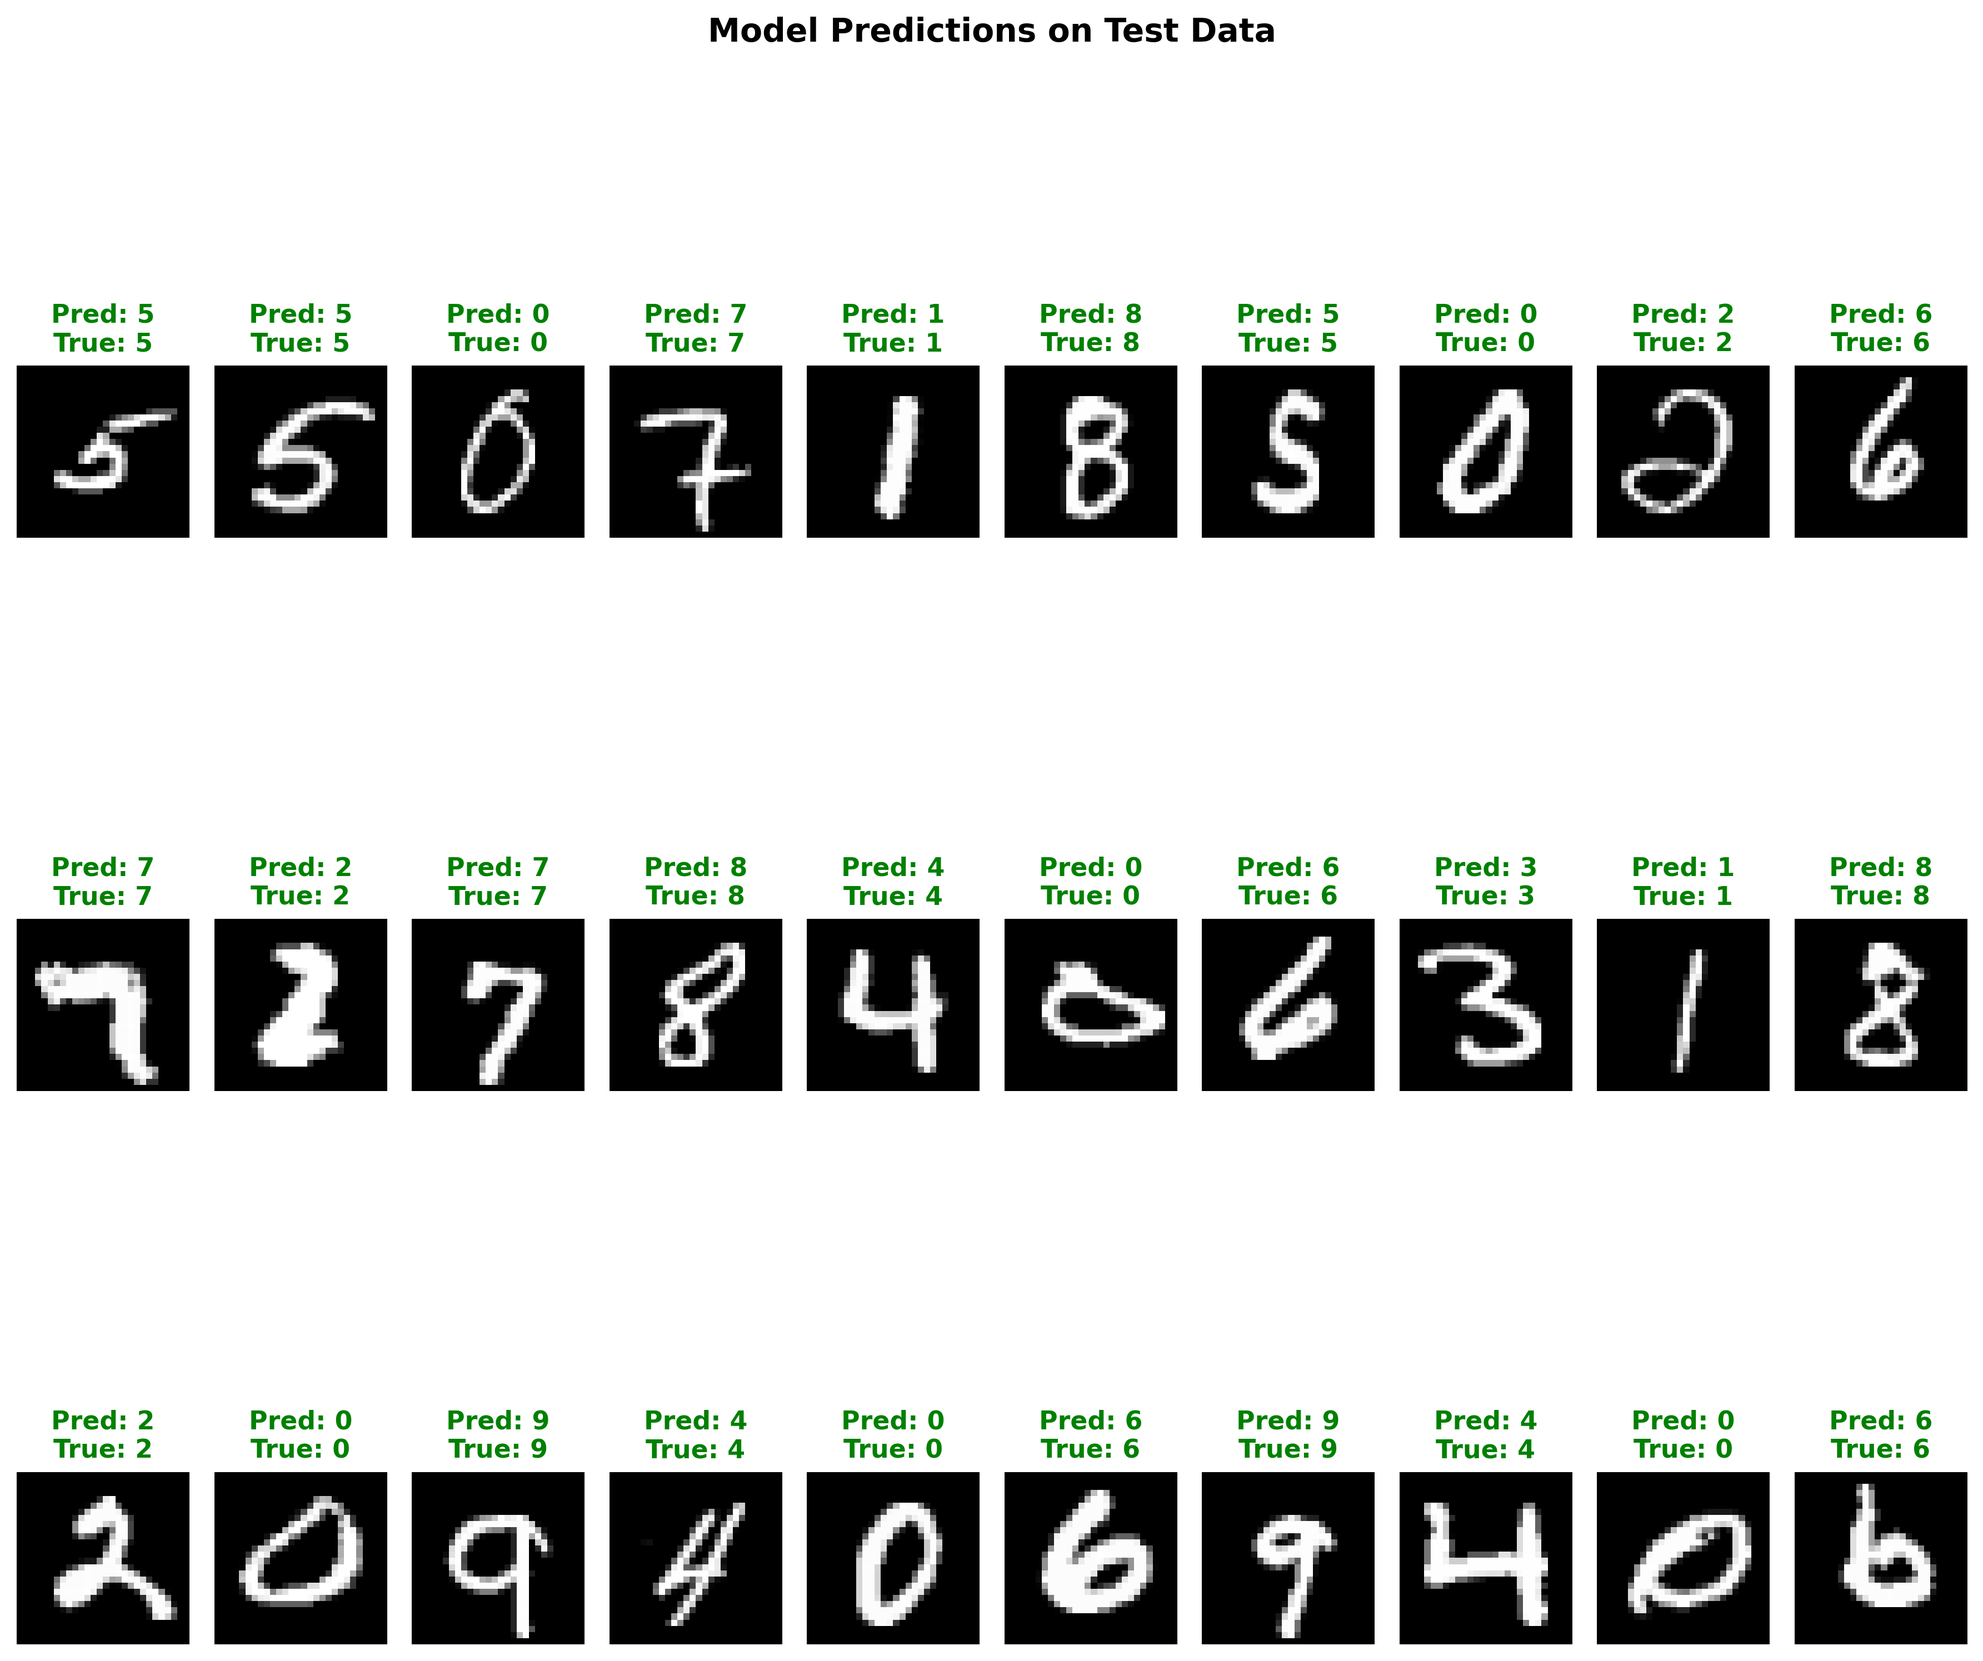
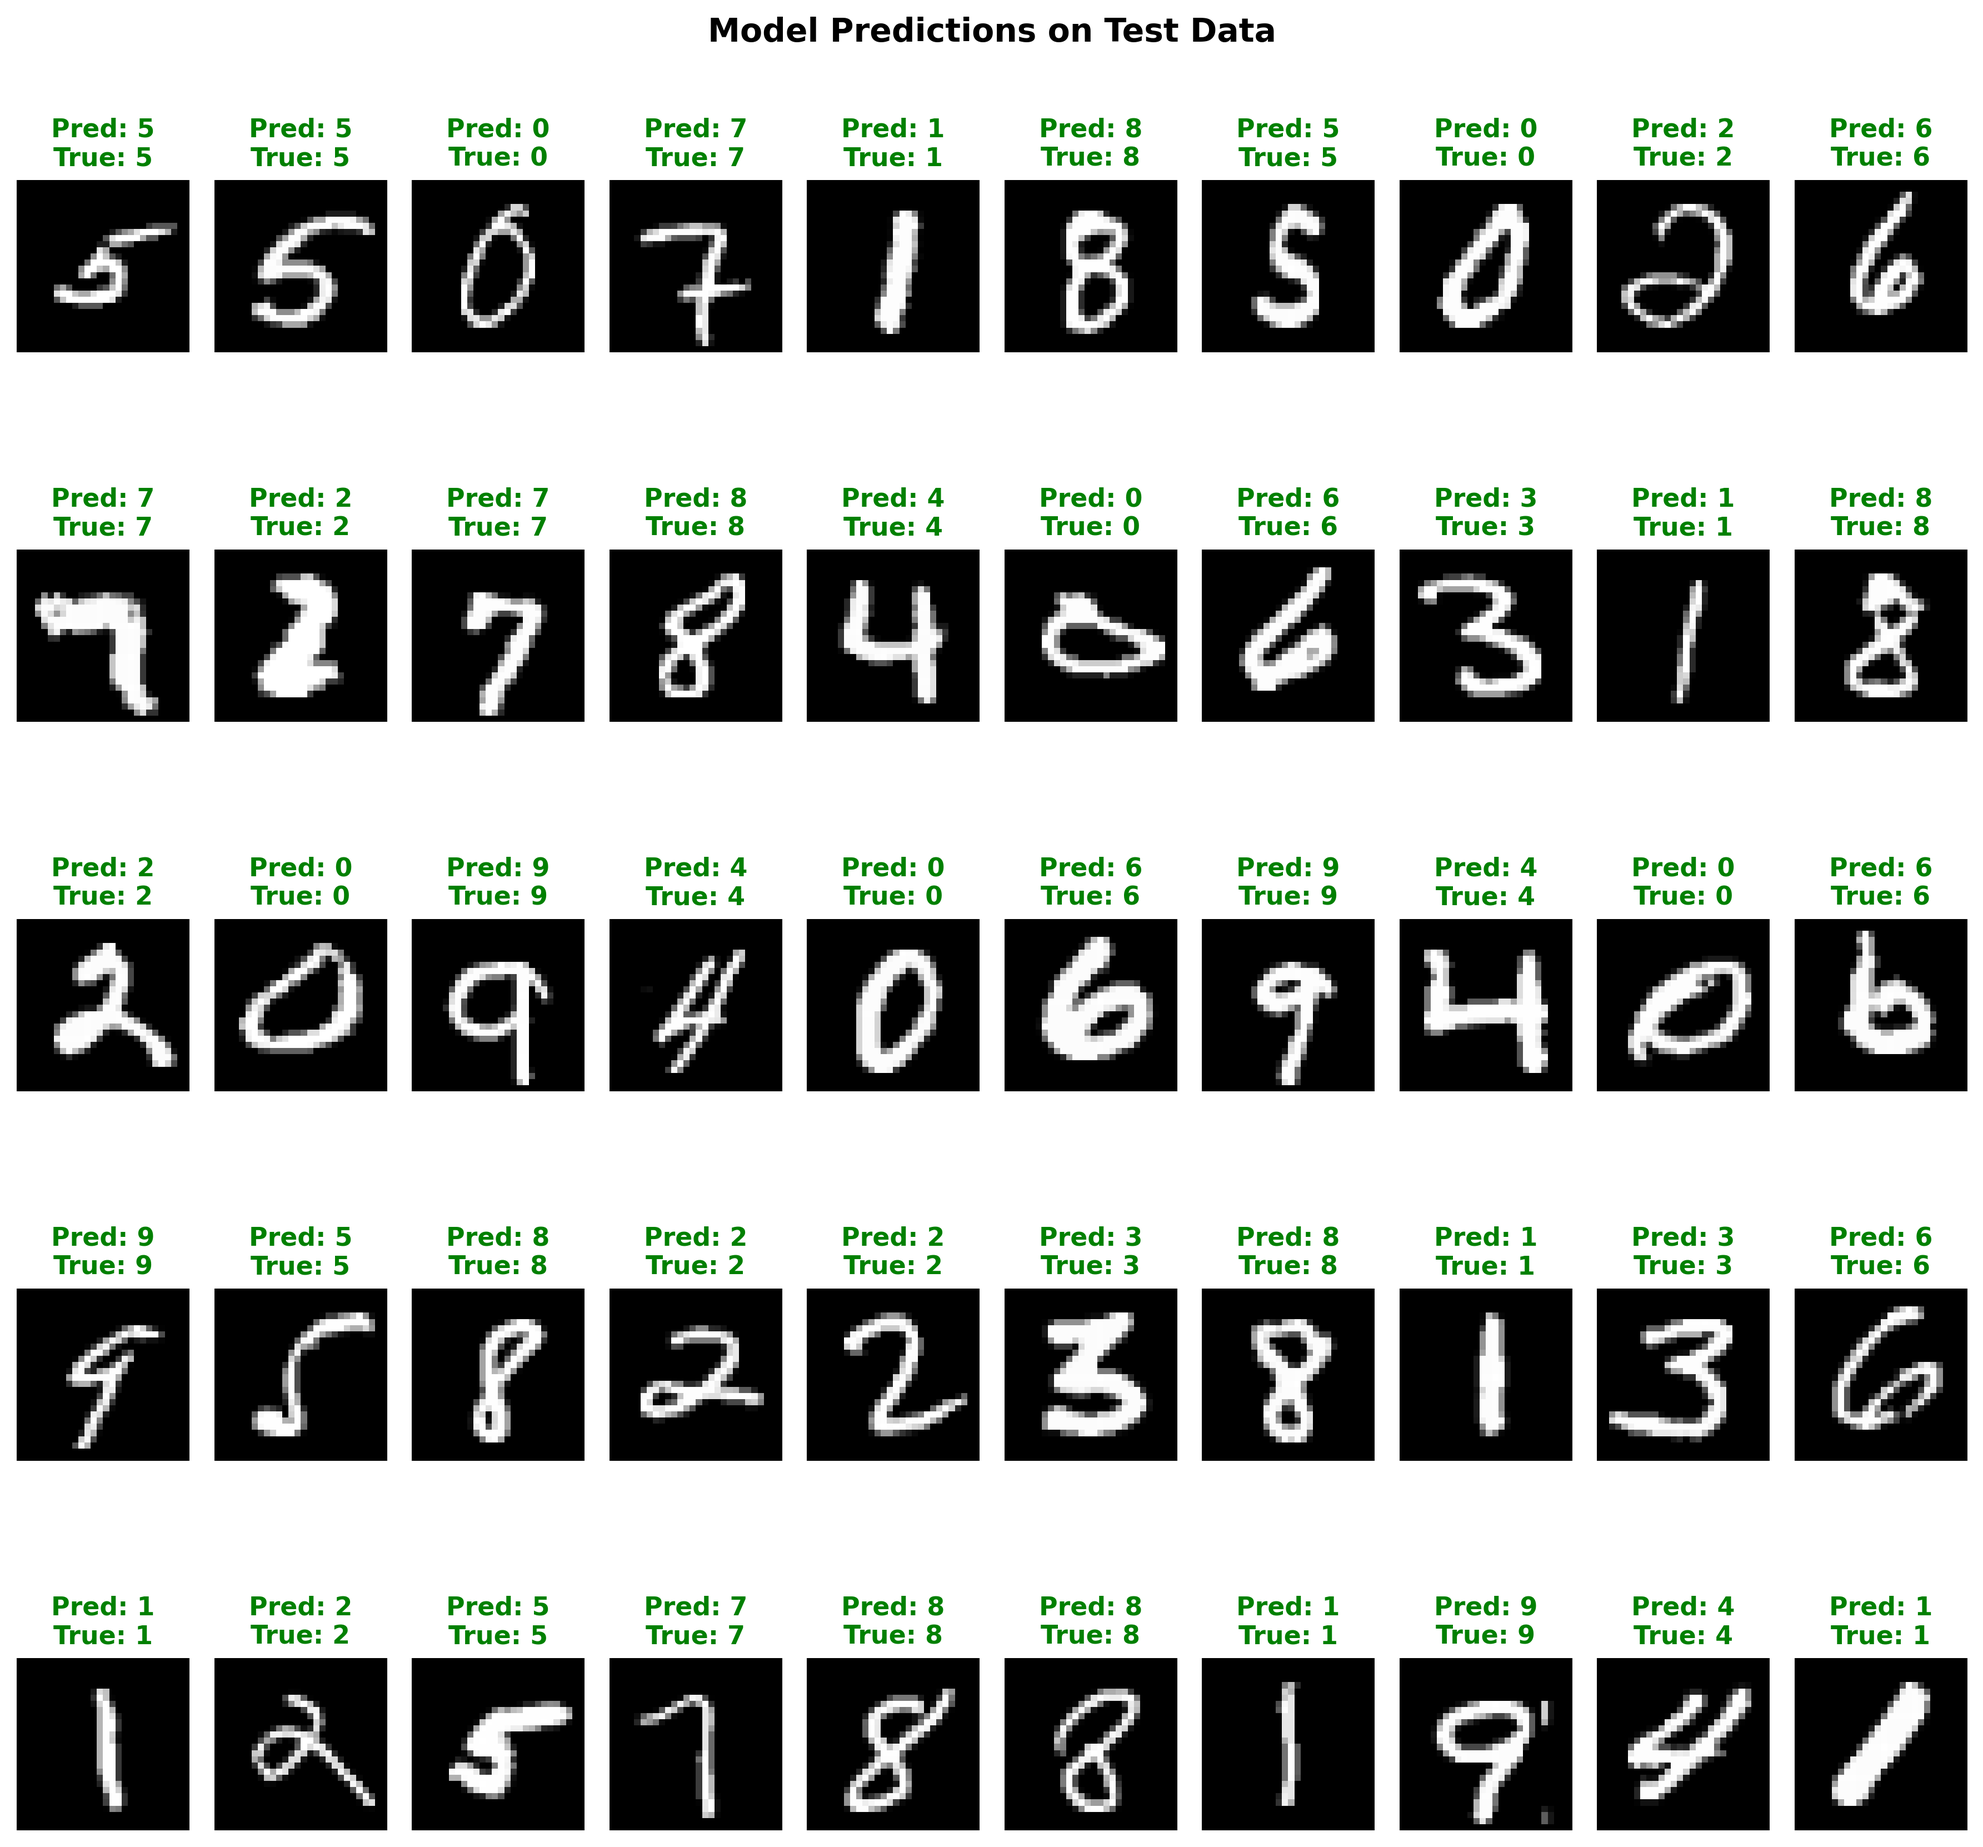
eval cnn plots added - test

diff --git a/mnist_evalaute.py b/mnist_evalaute.py
@@ -96,7 +96,7 @@ def create_prediction_plot(
 ):
     """Create and save a 3x3 plot showing images with predictions."""
 
-    fig, axes = plt.subplots(3, 10, figsize=(12, 12))
+    fig, axes = plt.subplots(5, 10, figsize=(12, 12))
     fig.suptitle("Model Predictions on Test Data", fontsize=14, fontweight="bold")
     print(f"axes size:{len(axes.flatten())}")
     print(f"img size:{len(images)}")
@@ -179,7 +179,7 @@ def main():
     parser.add_argument(
         "--num_samples",
         type=int,
-        default=30,
+        default=50,
         help="Number of samples to visualize (default: 9)",
     )
     parser.add_argument(
